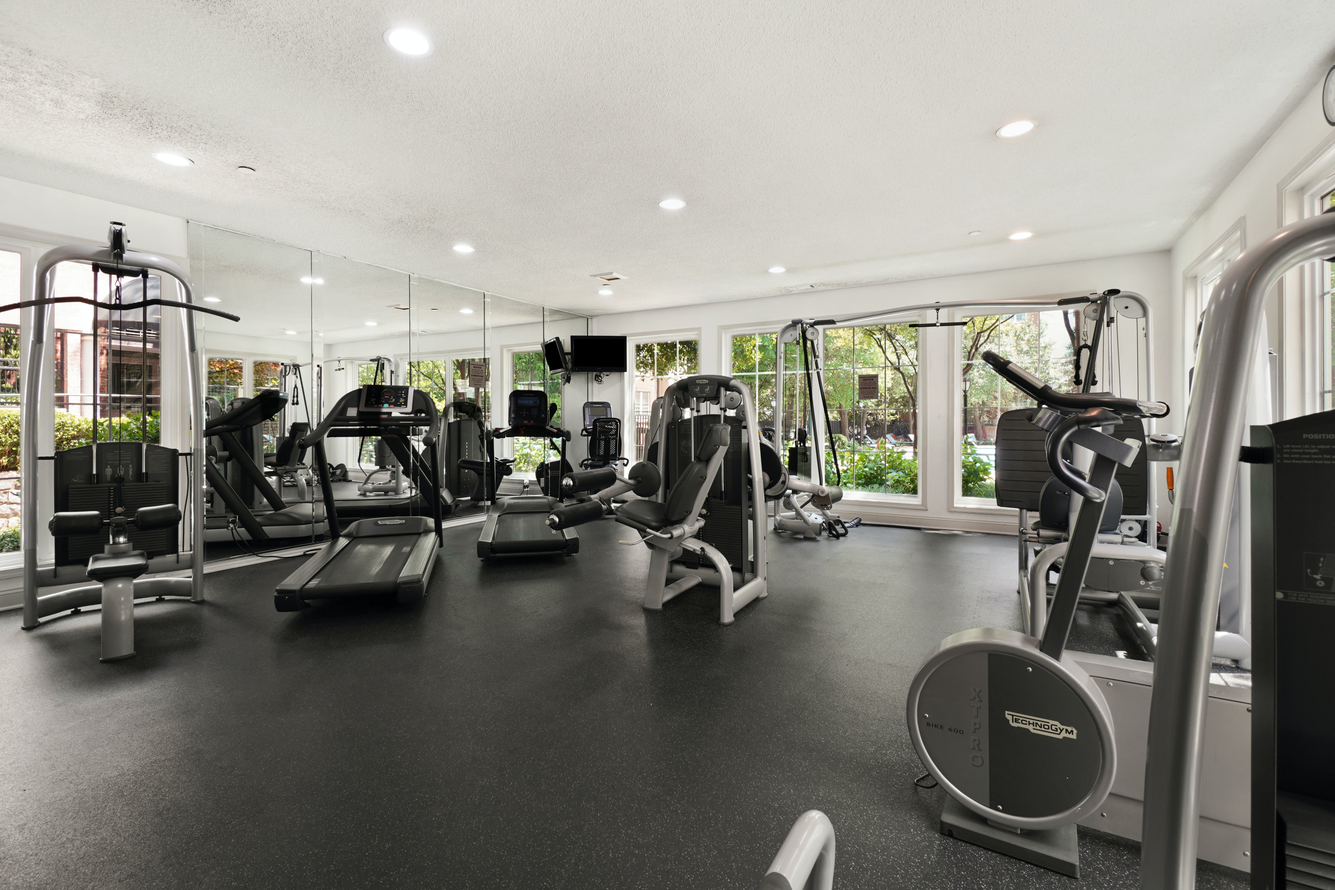
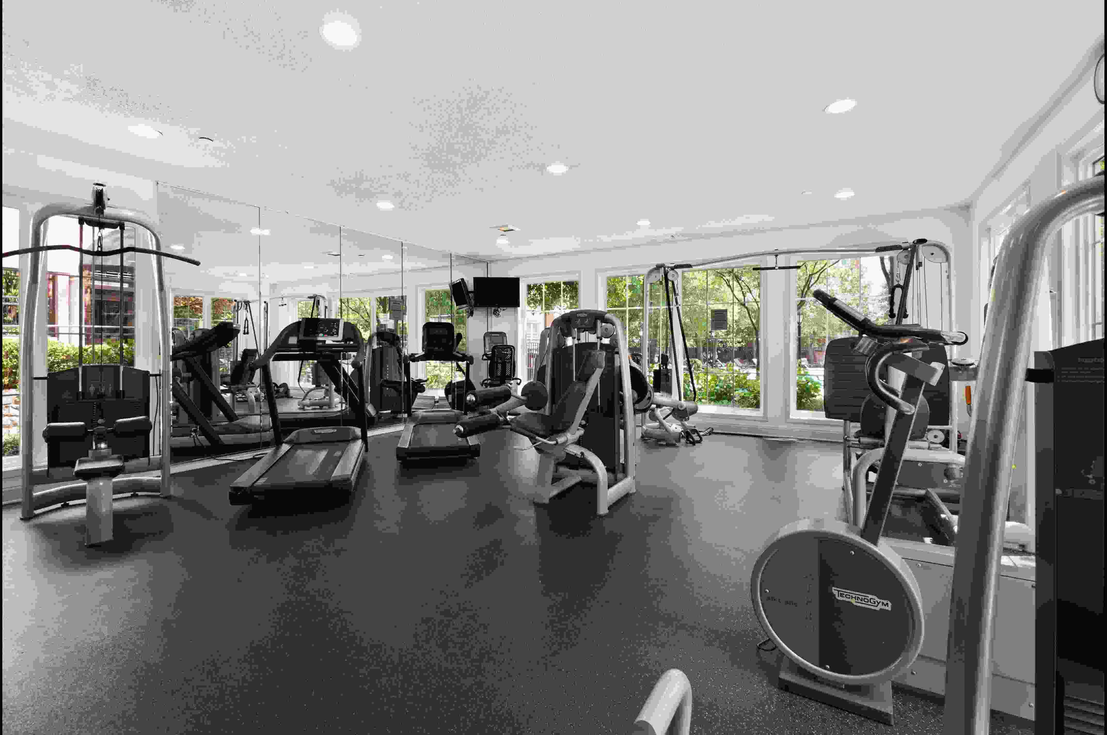
footer and image resize and compress

diff --git a/src/component/Footer/Footer.js b/src/component/Footer/Footer.js
@@ -1,0 +1,97 @@
+import React from 'react';
+import { BsFacebook } from "react-icons/bs";
+import { BiLogoInstagramAlt } from "react-icons/bi";
+import { BiLogoGmail } from "react-icons/bi";
+import { AiFillLinkedin } from "react-icons/ai";
+import { AiFillCopyrightCircle } from "react-icons/ai";
+import { Link } from 'react-router-dom';
+import img1 from "../../img/footer/footer1.jpg"
+import img2 from "../../img/footer/footer2.jpg"
+import img3 from "../../img/footer/footer3.jpg"
+const Footer = () => {
+        return (
+                <div>
+                        <hr className='border-t-4 border-gray-800 rounded' />
+                        <div className='my-8 md:mx-28 mx-[5%]  mb-8 '>
+                                <div className='grid grid-cols-3 gap-5'>
+                                        <div>
+                                                <h1 className='text-3xl font-semibold'>About</h1>
+                                                <p className='my-2 flex text-justify'>
+                                                        A gym is a fitness facility equipped with various exercise machines and equipment to help individuals improve their physical health and well-being. It provides a space for people to engage in various workouts, strength training, cardio exercises, and group fitness classes.
+                                                </p>
+                                                {/* add social line  */}
+                                                <div className='flex gap-4'>
+                                                        <Link to='https://www.facebook.com/mostak.shahariyar.0823'>
+                                                                <BsFacebook className='text-2xl hover:text-blue-800' />
+                                                        </Link>
+                                                        <Link to="https://www.instagram.com/mostakshahariyar18/">
+                                                                <BiLogoInstagramAlt className='text-2xl hover:text-blue-800' />
+                                                        </Link>
+                                                        <Link to='https://mail.google.com/mail/u/0/#inbox'>
+                                                                <BiLogoGmail className='text-2xl hover:text-blue-800' />
+                                                        </Link>
+                                                        <Link to="https://www.linkedin.com/in/mostak0805/">
+                                                                <AiFillLinkedin className='text-2xl hover:text-blue-800' />
+                                                        </Link>
+                                                </div>
+
+
+                                        </div>
+                                        <div className='mx-auto'>
+                                                <h1 className='text-3xl font-semibold'>Contact</h1>
+                                                <p className='my-2 flex text-justify'>
+                                                        Uttara10, Road-10, House-10,<br />
+                                                        Dhaka Bangladesh
+                                                </p>
+                                                <p>123 5221 1552</p>
+                                                <p>123 5111 2525</p>
+                                                <p className='text-gray-500 cursor-pointer'>info@gym.com</p>
+                                        </div>
+                                        <div>
+                                                <h1 className='text-3xl font-semibold mb-1'>Blogs</h1>
+                                                <div className='grid grid-row-3 gap-2'>
+                                                       
+                                                        <div className='flex gap-10 items-center'>
+                                                                <div className='w-[50%]'>
+                                                                        <img src={img2} alt="" />
+                                                                </div>
+                                                                <div>
+                                                                        <p className='text-xl font-semibold text-justify'>Iron Mindset</p>
+                                                                        <p>Unyielding determination for achieving your fitness goals.</p>
+                                                                </div>
+                                                        </div>
+                                                        <div className='flex gap-10 items-center'>
+                                                                <div className='w-[80%]'>
+                                                                        <img src={img1} alt="" />
+                                                                </div>
+                                                                <div>
+                                                                        <p className='text-xl font-semibold text-justify'>CrossFit Preparation</p>
+                                                                        <p>CrossFit Preparation involves specific training and conditioning to build strength, endurance.</p>
+                                                                </div>
+                                                        </div>
+                                                        <div className='flex gap-10 items-center'>
+                                                                <div className='w-[80%]'>
+                                                                        <img src={img3} alt="" />
+                                                                </div>
+                                                                <div>
+                                                                        <p className='text-xl font-semibold text-justify'>Train Harder</p>
+                                                                        <p>Push your limits, surpass your goals, and achieve peak performance in pursuit of greatness.</p>
+                                                                </div>
+                                                        </div>
+                                                        
+                                                        
+
+                                                </div>
+                                        </div>
+                                </div>
+                        </div>
+                        {/* copy right */}
+                        <div>
+                                <p className='flex text-lg pb-2 justify-center gap-1 items-center'><AiFillCopyrightCircle/> 2023 fitness gym</p>
+
+                        </div>
+                </div>
+        );
+};
+
+export default Footer;

diff --git a/src/App.js b/src/App.js
@@ -1,18 +1,31 @@
 import Home from '../src/component/Home/Home';
-import {BrowserRouter as Router,
-Routes, Route
+import {
+  BrowserRouter as Router,
+  Routes, Route
 } from "react-router-dom";
 import NotFound from './component/NotFound/NotFound';
+import Team from './component/Team/Team';
+import Service from './component/Service/Service';
+import Shop from './component/Shop/Shop';
+import About from './component/About/About';
+import Navbar from './component/Navbar/Navbar'
+import Footer from './component/Footer/Footer';
 
 function App() {
   return (
     <Router>
+      <Navbar/>
       <Routes>
-        <Route path="/" element={<Home/>}/>
-        <Route path="/home" element={<Home/>}/>
-        <Route path="*" element={<NotFound/>}/>
+        <Route path="/" element={<Home />} />
+        <Route path="/home" element={<Home />} />
+        <Route path="/team" element={<Team />} />
+        <Route path="/shop" element={<Shop />} />
+        <Route path="/about" element={<About />} />
+        <Route path="/service" element={<Service />} />
+        <Route path="*" element={<NotFound />} />
 
       </Routes>
+      <Footer/>
     </Router>
   );
 }

diff --git a/src/component/Navbar/Navbar.js b/src/component/Navbar/Navbar.js
@@ -9,7 +9,7 @@ const navigation = [
   { name: 'Team', href: '/team', current: false },
   { name: 'Service', href: '/service', current: false },
   { name: 'About', href: '/about', current: false },
-  { name: 'Contact', href: '/contact', current: false },
+  { name: 'Shop', href: '/shop', current: false },
 ]
 
 function classNames(...classes) {
@@ -37,11 +37,13 @@ export default function Example() {
               {/* image and nav text */}
               <div className="flex flex-auto justify-center sm:items-center sm:justify-start">
                 <div className="flex flex-shrink-0 items-center">
-                  <img
-                    className="h-[5rem] w-auto"
-                    src={logo}
-                    alt="Strong Body"
-                  />
+                  <Link to="/">
+                    <img
+                      className="h-[5rem] w-auto"
+                      src={logo}
+                      alt="Strong Body"
+                    />
+                  </Link>
                 </div>
                 <div className="hidden sm:ml-6 sm:block">
                   <div className="flex space-x-4">

diff --git a/src/component/Banner/Banner.js b/src/component/Banner/Banner.js
@@ -12,7 +12,8 @@ import img6 from '../../img/Banner/banner6.jpg';
 
 const Banner = () => {
         return (
-                <Carousel autoPlay={true} emulateTouch={true} infiniteLoop={true} centerSlidePercentage={true} dynamicHeight={true}
+
+                <Carousel className='md:mx-28 mx-[5%]  mb-8' autoPlay='1000' emulateTouch={true} infiniteLoop={true} centerSlidePercentage={true} dynamicHeight={true}
                         preventMovementUntilSwipeScrollTolerance={true}>
                         <div>
                                 <img alt="" src={img1} />
@@ -33,6 +34,7 @@ const Banner = () => {
                                 <img alt="" src={img6} />
                         </div>
                 </Carousel>
+
         );
 };
 

diff --git a/src/component/Service/Service.js b/src/component/Service/Service.js
@@ -1,0 +1,11 @@
+import React from 'react';
+
+const Service = () => {
+        return (
+                <div>
+                        <h1 className='text-center'>This is a service page...</h1>
+                </div>
+        );
+};
+
+export default Service;

diff --git a/src/component/About/About.js b/src/component/About/About.js
@@ -1,0 +1,11 @@
+import React from 'react';
+
+const About = () => {
+        return (
+                <div>
+                        <h1 className='text-center'>This is a About page.</h1>
+                </div>
+        );
+};
+
+export default About;

diff --git a/src/component/Team/Team.js b/src/component/Team/Team.js
@@ -1,0 +1,11 @@
+import React from 'react';
+
+const Team = () => {
+        return (
+                <div>
+                        <h1 className='text-center'>This is a team page...</h1>
+                </div>
+        );
+};
+
+export default Team;

diff --git a/src/component/Shop/Shop.js b/src/component/Shop/Shop.js
@@ -1,0 +1,11 @@
+import React from 'react';
+
+const Shop = () => {
+        return (
+                <div>
+                        <h1 className='text-center'>This is a shop page.</h1>
+                </div>
+        );
+};
+
+export default Shop;

diff --git a/src/component/Home/Home.js b/src/component/Home/Home.js
@@ -5,7 +5,6 @@ import Banner from '../Banner/Banner';
 const home = () => {
         return (
                 <div>
-                       <Navbar/>
                        <Banner/>
                 </div>
         );
